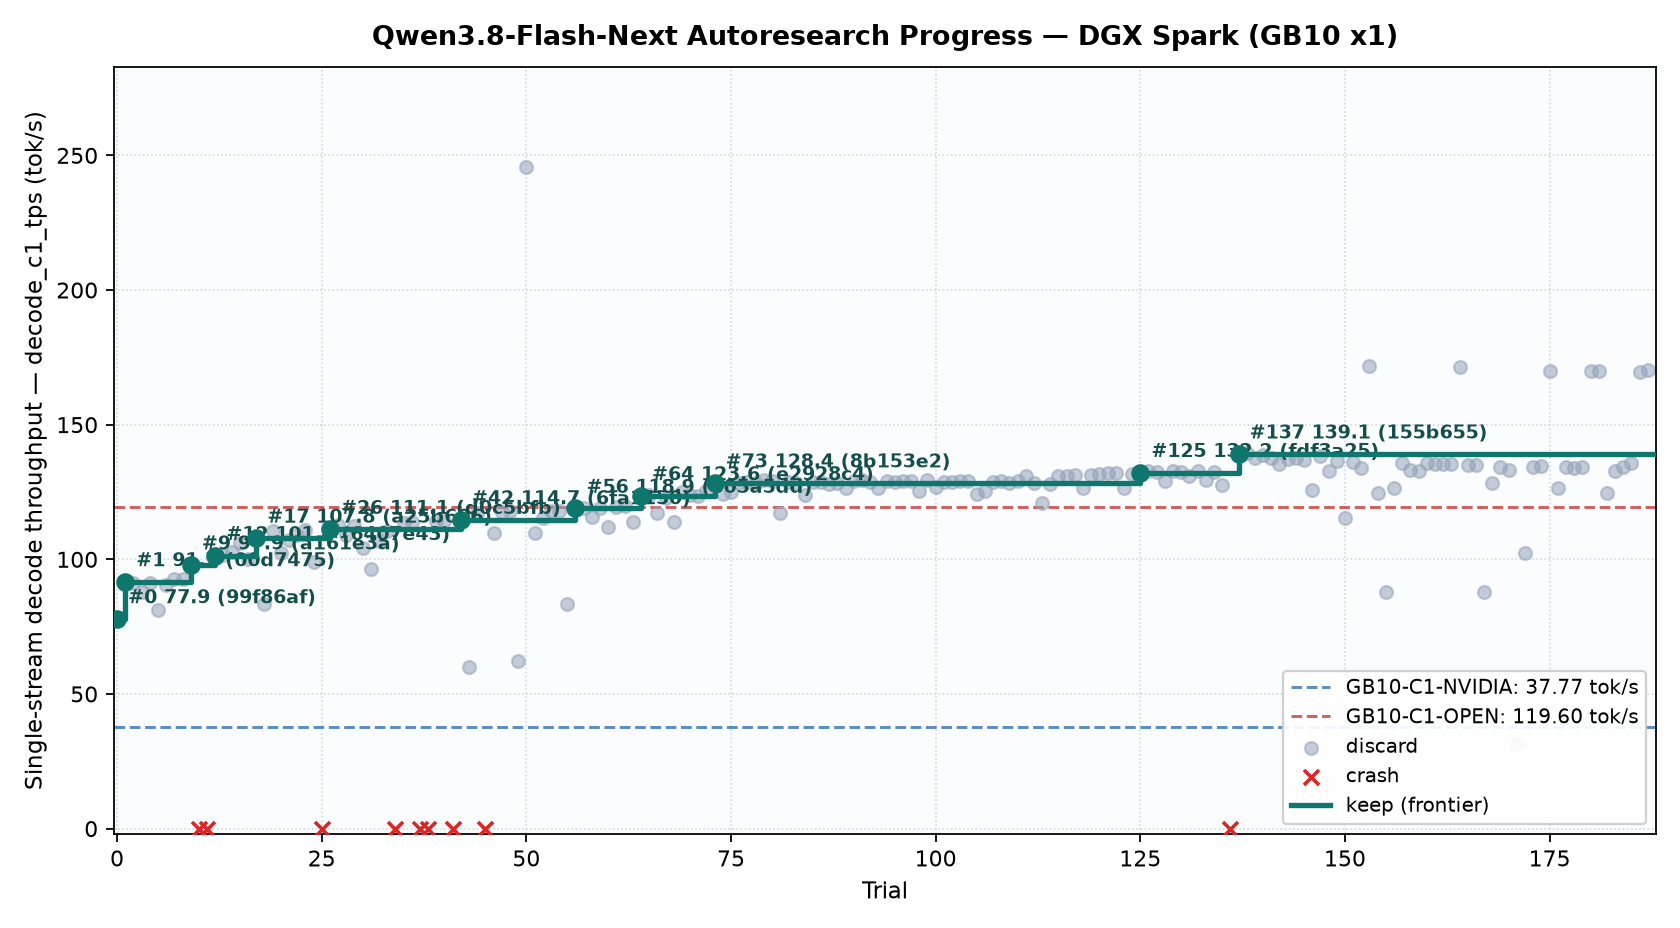
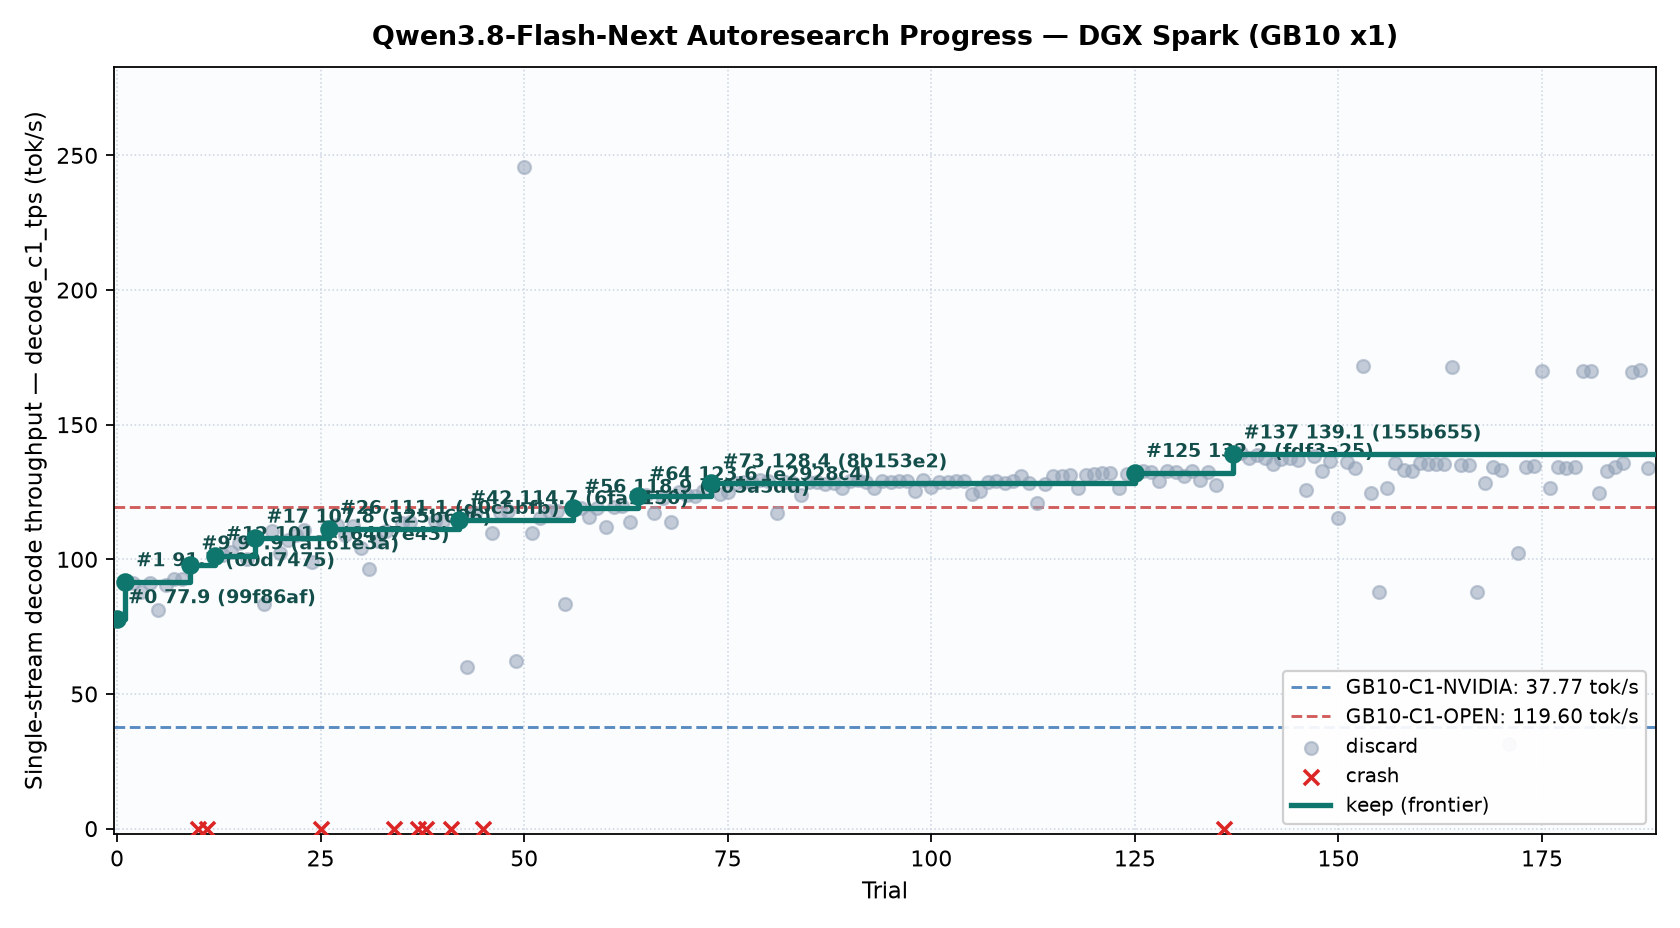
spark trial 188: discard

diff --git a/records/research-log.md b/records/research-log.md
@@ -217,3 +217,4 @@ Deprioritized: **3-bit expert weights** (Hibana +43% but GPQA -0.3, LCB -2.3; on
 | 2026-11-22 05:03 | 185 (new stack) | <https://github.com/sharar-project/hibana/blob/v0.1.0/hibana/model/flashnext/moe.py> | Reviewed all six release, commit and PR feeds. Trial 184 recorded 134.11 C1 and 242.15 C8 (discard). Trials 180 and 181 cleared the C1 gate. Trial 183 instead cleared the C8 floor. | Hibana item 1. Use trial 183's protected top-four union when more than three quarters of top-four picks are distinct. Otherwise use trial 153's bounded singleton rule. Dispatch by observed expert reuse across all profiles. |
 | 2026-11-22 05:12 | 186 (new stack) | <https://github.com/ashhart/TensorFold/blob/6b9de695104b6b8b30c20458da87ac06c9480289/zig/kernels/cuda/flashnext_pages.cuh> | Reviewed all six release, commit and PR feeds. Trial 185 recorded 135.65 C1 and 242.33 C8 (discard). The pinned TensorFold page lookup divides a row index by a runtime page span in both attention and index-cache paths. | Hibana items 1 and 2. Retest trial 153's routing with a shift and mask for power-of-two KV page spans. Keep its BF16 cache layout and the signed division fallback. |
 | 2026-11-22 05:20 | 187 (new stack) | <https://github.com/sharar-project/hibana/blob/v0.1.0/hibana/model/flashnext/moe.py> | Reviewed all six release, commit and PR feeds. Trial 186 recorded 169.53 C1 and 240.34 C8 (discard). The existing fused router stops at 32 rows although the expert planner can represent 64 rows with its packed counts. | Hibana item 1. Extend trial 153's fused router through 64 verification rows by assigning two rows to each warp. Preserve its per-row mass bound and leave larger windows on the existing path. |
+| 2026-11-22 05:52 | 188 (new stack) | <https://github.com/NVIDIA/TensorRT-LLM/pull/21214> | Six upstream release, commit and PR feeds checked. TensorRT-LLM fuses Kimi verification. Trial 187 cleared speed thresholds but its G40 run ended without a score. | Defer the Kimi-specific kernel. Test the 64-row fused planner alone with every original expert and weight retained. |
